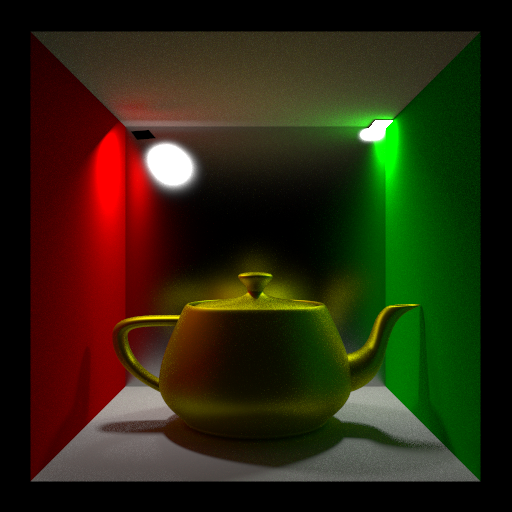
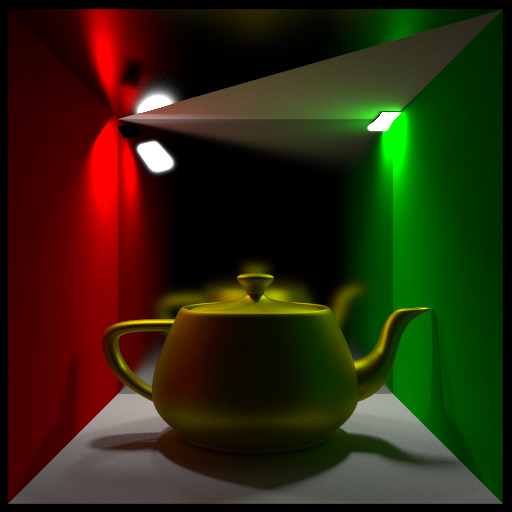
fix 224 test, make it both for ibpt and mmlt

diff --git a/main/tests_lights2.cpp b/main/tests_lights2.cpp
@@ -1899,7 +1899,7 @@ namespace LGHT_TESTS
       camNode.append_child(L"farClipPlane").text().set(L"100.0");
 
       camNode.append_child(L"up").text().set(L"0 1 0");
-      camNode.append_child(L"position").text().set(L"0 0 15");
+      camNode.append_child(L"position").text().set(L"0 0 14");
       camNode.append_child(L"look_at").text().set(L"0 0 0");
     }
     hrCameraClose(camRef);
@@ -1953,12 +1953,12 @@ namespace LGHT_TESTS
     mat4x4_identity(mTranslate);
     mat4x4_identity(mRes);
 
-    //mat4x4_translate(mTranslate, 0.0f, -0.70f*3.65f, 0.0f);
-    //mat4x4_scale(mRot1, mRot1, 3.65f);
-    //mat4x4_mul(mRes, mTranslate, mRot1);
-    //mat4x4_transpose(matrixT, mRes); // this fucking math library swap rows and columns
-    //matrixT[3][3] = 1.0f;
-    //hrMeshInstance(scnRef, teapotRef, &matrixT[0][0]);
+    mat4x4_translate(mTranslate, 0.0f, -0.70f*3.65f, 0.0f);
+    mat4x4_scale(mRot1, mRot1, 3.65f);
+    mat4x4_mul(mRes, mTranslate, mRot1);
+    mat4x4_transpose(matrixT, mRes); // this fucking math library swap rows and columns
+    matrixT[3][3] = 1.0f;
+    hrMeshInstance(scnRef, teapotRef, &matrixT[0][0]);
 
     mat4x4_identity(mRot1);
     mat4x4_rotate_Y(mRot1, mRot1, 180.0f*DEG_TO_RAD);
@@ -2019,8 +2019,53 @@ namespace LGHT_TESTS
     }
 
     hrRenderSaveFrameBufferLDR(renderRef, L"tests_images/test_224/z_out.png");
-
-    return check_images("test_224", 1, 40.0f);
+  
+  
+    hrRenderOpen(renderRef, HR_OPEN_EXISTING);
+    {
+      pugi::xml_node node = hrRenderParamNode(renderRef);
+      
+      node.force_child(L"method_primary").text()   = L"pathtracing";
+      node.force_child(L"method_secondary").text() = L"mmlt";
+  
+      node.force_child(L"mmlt_burn_iters").text()     = 1024;   // [1024, 2048, 4096, 8192, 16384, 65536]
+      node.force_child(L"mmlt_sds_fixed_prob").text() = 0;      // [0, 0.25, 0.5, 0,75, 0 85, 0.9, 0.95 ]
+      node.force_child(L"mmlt_threads").text()        = 262144; // [524288, 262144, 131072(?), 65536, 16384]
+  
+      node.force_child(L"maxRaysPerPixel").text()     = 8192;
+    }
+    hrRenderClose(renderRef);
+  
+    hrFlush(scnRef, renderRef);
+  
+    while (true)
+    {
+      std::this_thread::sleep_for(std::chrono::milliseconds(500));
+    
+      HRRenderUpdateInfo info = hrRenderHaveUpdate(renderRef);
+    
+      if (info.haveUpdateFB)
+      {
+        hrRenderGetFrameBufferLDR1i(renderRef, TEST_SCREEN_SIZE, TEST_SCREEN_SIZE, &image[0]);
+      
+        glDisable(GL_TEXTURE_2D);
+        glDrawPixels(TEST_SCREEN_SIZE, TEST_SCREEN_SIZE, GL_RGBA, GL_UNSIGNED_BYTE, &image[0]);
+      
+        auto pres = std::cout.precision(2);
+        std::cout << "rendering progress = " << info.progress << "% \r";
+        std::cout.precision(pres);
+      
+        glfwSwapBuffers(g_window);
+        glfwPollEvents();
+      }
+    
+      if (info.finalUpdate)
+        break;
+    }
+  
+    hrRenderSaveFrameBufferLDR(renderRef, L"tests_images/test_224/z_out2.png");
+    
+    return check_images("test_224", 2, 40.0f);
   }
 
 

diff --git a/main/main.cpp b/main/main.cpp
@@ -137,9 +137,8 @@ int main(int argc, const char** argv)
     //run_all_lgt_tests();
     //run_all_mtl_tests();
     //run_all_ipp_tests();
-  
-    //LGHT_TESTS::test_225_point_spot_simple();
-    LGHT_TESTS::test_227_point_spot_glossy_wall();
+    
+    std::cout << LGHT_TESTS::test_224_rotated_area_light2() << std::endl;
 
     //std::cout << PP_TESTS::test301_resample()        << std::endl;
     //std::cout << PP_TESTS::test302_median()          << std::endl;
